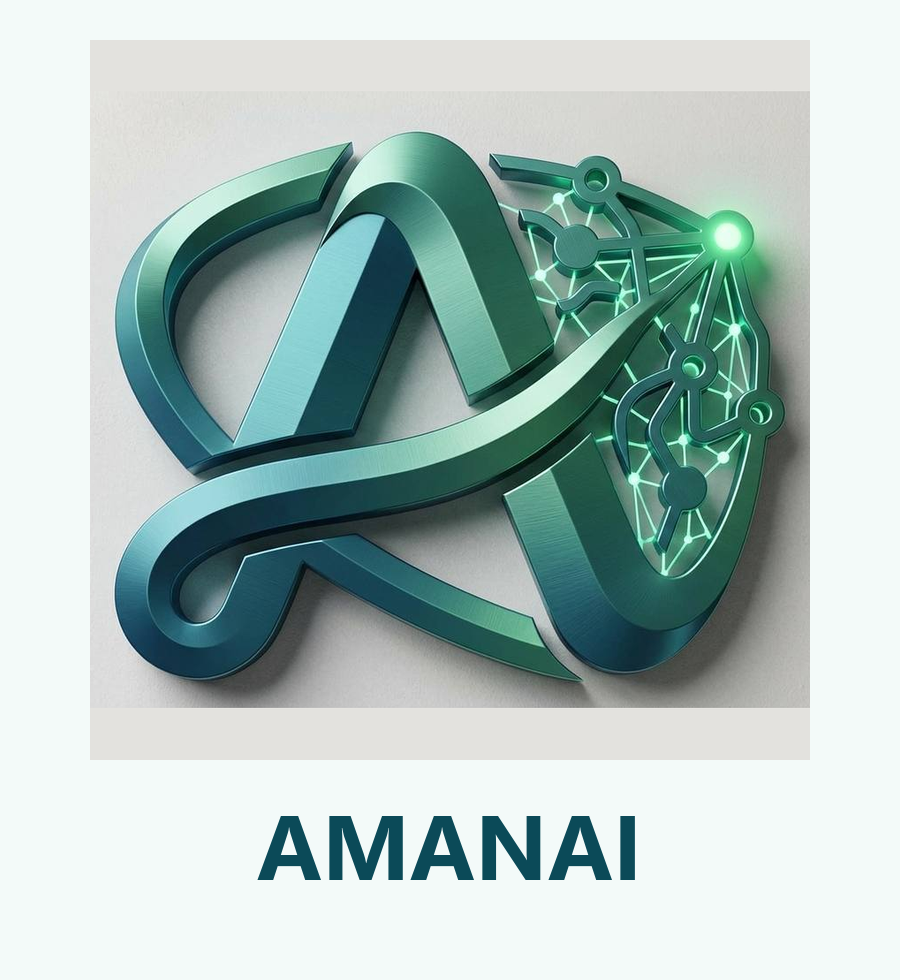
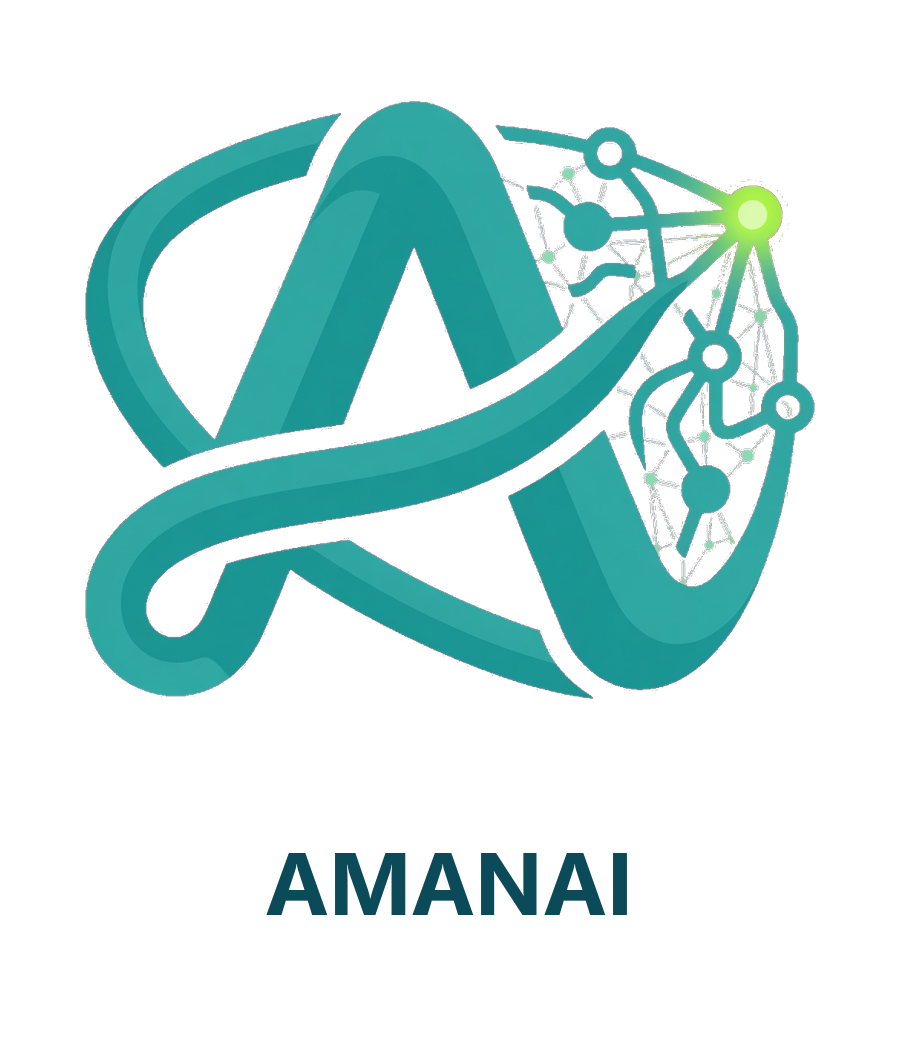
feat: 2D AmanAI mark with transparent background

diff --git a/app/globals.css b/app/globals.css
@@ -219,14 +219,13 @@ a:hover { color: var(--brand-hover); }
   display: block;
   object-fit: contain;
   flex: none;
-  border-radius: 8px;
+  background: transparent;
   user-select: none;
 }
 .logo-hero {
   width: min(220px, 70%);
   height: auto;
-  border-radius: 14px;
-  filter: drop-shadow(0 12px 28px rgb(11 74 88 / 0.18));
+  filter: drop-shadow(0 12px 28px rgb(11 74 88 / 0.16));
 }
 .wordmark { display: flex; flex-wrap: wrap; align-items: baseline; gap: 0 1px; line-height: 1.1; }
 .wm-aman { font-weight: 600; font-size: 15px; letter-spacing: -0.02em; color: var(--brand-deep); }
